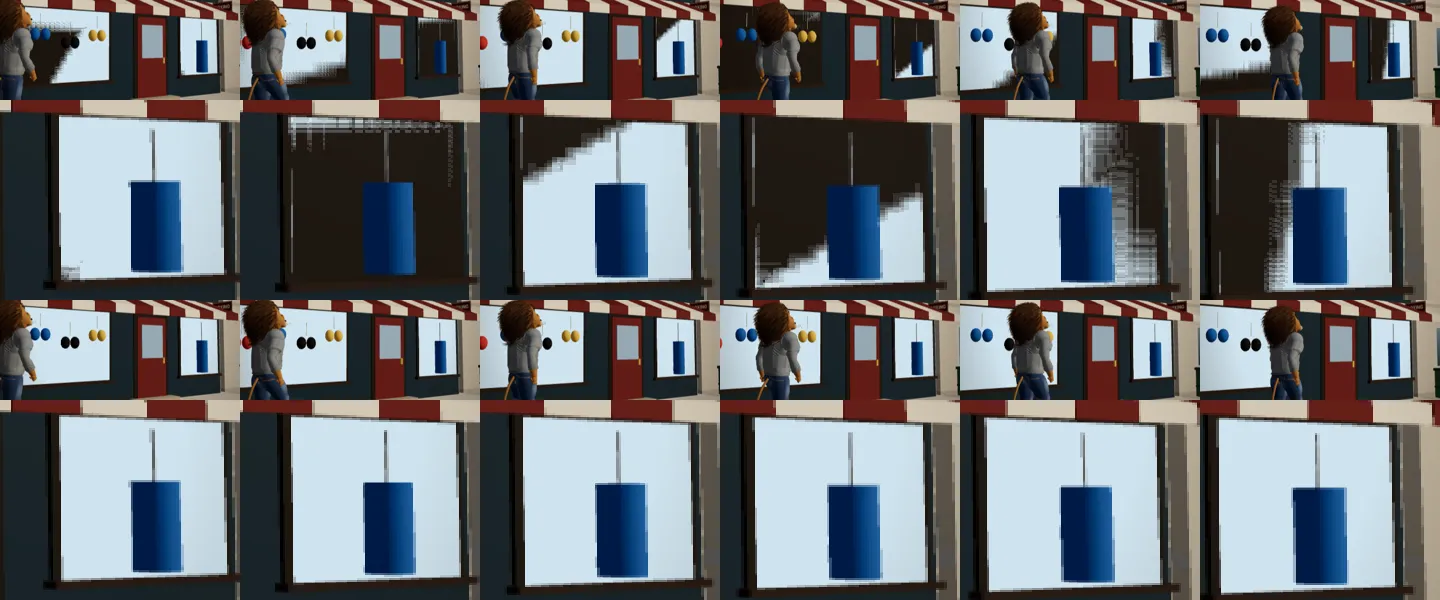
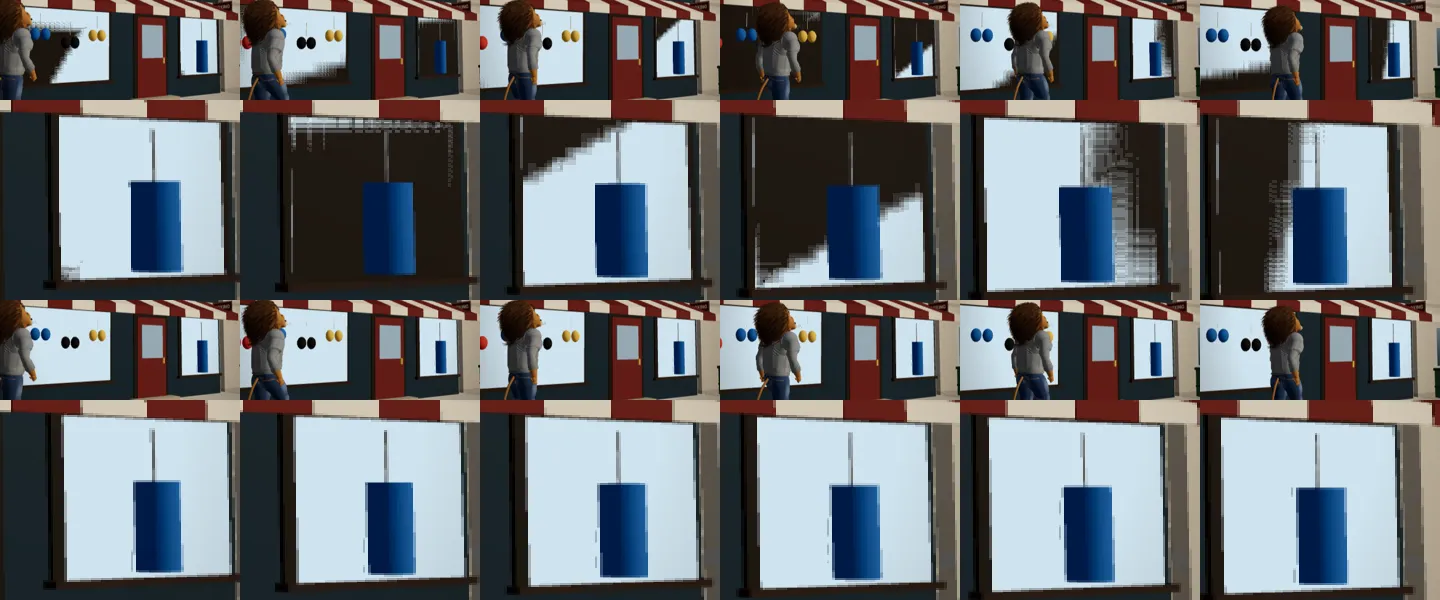
GOTR-0101: 4 cm glass offset (phone depth precision margin)
Claude-Session: https://claude.ai/code/session_012XYxhNGd6wn6U9MuUmHsfB

diff --git a/adventure/story/market-sets.js b/adventure/story/market-sets.js
@@ -118,7 +118,7 @@
       box(S, .9, 0, fz + .06, 1.18, 2.35, .08, '#2b2420'); box(S, .9, .04, fz + .1, .98, 2.22, .05, '#7a2f26'); box(S, .9, 1.15, fz + .14, .72, .9, .02, '#9fc3e6'); box(S, 1.27, 1.0, fz + .16, .05, .16, .05, '#e0b84d'); // door
       box(S, .9, 0, fz + .2, 1.4, .1, .5, '#b3a892'); // step
       for (const [wx, ww] of [[-1.85, 2.9], [2.75, 1.7]]) { // display windows: glass, frame, sill; gloves and a bag behind
-        box(S, wx, .55, fz + .08, ww, 1.85, .06, '#2b2420'); G.add(P.box, M(wx, .62, fz + .125, ww - .14, 1.7, .02), C('#cfe3ee')); /* glass 1.5 cm proud of the frame face (fz+.11): coplanar faces flickered */ box(S, wx, .55, fz + .12, ww + .1, .08, .14, '#3a2b24');
+        box(S, wx, .55, fz + .08, ww, 1.85, .06, '#2b2420'); G.add(P.box, M(wx, .62, fz + .16, ww - .14, 1.7, .02), C('#cfe3ee')); /* glass 4 cm proud of the frame face (fz+.11): coplanar faces flickered, phones have less depth precision */ box(S, wx, .55, fz + .12, ww + .1, .08, .14, '#3a2b24');
       }
       for (let k = 0; k < 4; k++) { const gx = -3 + k * .72, col = ['#d9473b', '#2f6fc0', '#1d1f24', '#f4c152'][k]; for (const s of [-1, 1]) S.add(P.sph, M(gx + s * .12, 1.55 + (k % 2) * .18, fz + .16, .11, .14, .1), C(col)); cyl(S, gx, 1.72 + (k % 2) * .18, fz + .16, .006, .3, '#e9e2cc', P.cyl6); }
       cyl(S, 2.75, .7, fz + .2, .17, .95, '#2f6fc0', P.cyl12); cyl(S, 2.75, 1.65, fz + .2, .01, .55, '#aab2bc', P.cyl6);

diff --git a/docs/glory-of-the-ring/FEEDBACK_BACKLOG.md b/docs/glory-of-the-ring/FEEDBACK_BACKLOG.md
@@ -961,7 +961,7 @@ User tested the published build. Wording below is the user's request, lightly cl
 - **Reported:** 2026-11-21 (owner; worked on in a ChatGPT session that ran out of usage — no commit reached GitHub)
 - **Status:** READY FOR QA — fixed on `claude/ecstatic-clarke-9as2ak` (v1.76 candidate, not published)
 - **Cause:** in `adventure/story/market-sets.js` the display-window glass and its dark frame had their front faces on the same plane (shop front + 0.11 m), so the depth test picked a different surface each frame (z-fighting).
-- **Fix:** glass moved 1.5 cm in front of the frame. Test `tests/shop-window-depth.test.cjs`. Evidence `qa/gotr-0101/otto-windows-before-after.webp` (6 consecutive frames of the street shot at 402×690, before: large dark patches change every frame; after: stable), tool `qa/gotr-0101/otto-flicker.cjs`. Not checked on a phone.
+- **Fix:** glass moved 4 cm in front of the frame (margin for the lower depth precision of phones; owner iPhone recording of live v1.75 on 2026-11-21 showed the same blocky flicker). Test `tests/shop-window-depth.test.cjs`. Evidence `qa/gotr-0101/otto-windows-before-after.webp` (6 consecutive frames of the street shot at 402×690, before: large dark patches change every frame; after: stable), tool `qa/gotr-0101/otto-flicker.cjs`. Not checked on a phone.
 
 ### GOTR-0070 — Picture stretched tall on the phone in training
 - **Reported:** 2026-11-12 (iPhone screenshot, v1.45, mitts: Fighter and Coach tall and thin)
